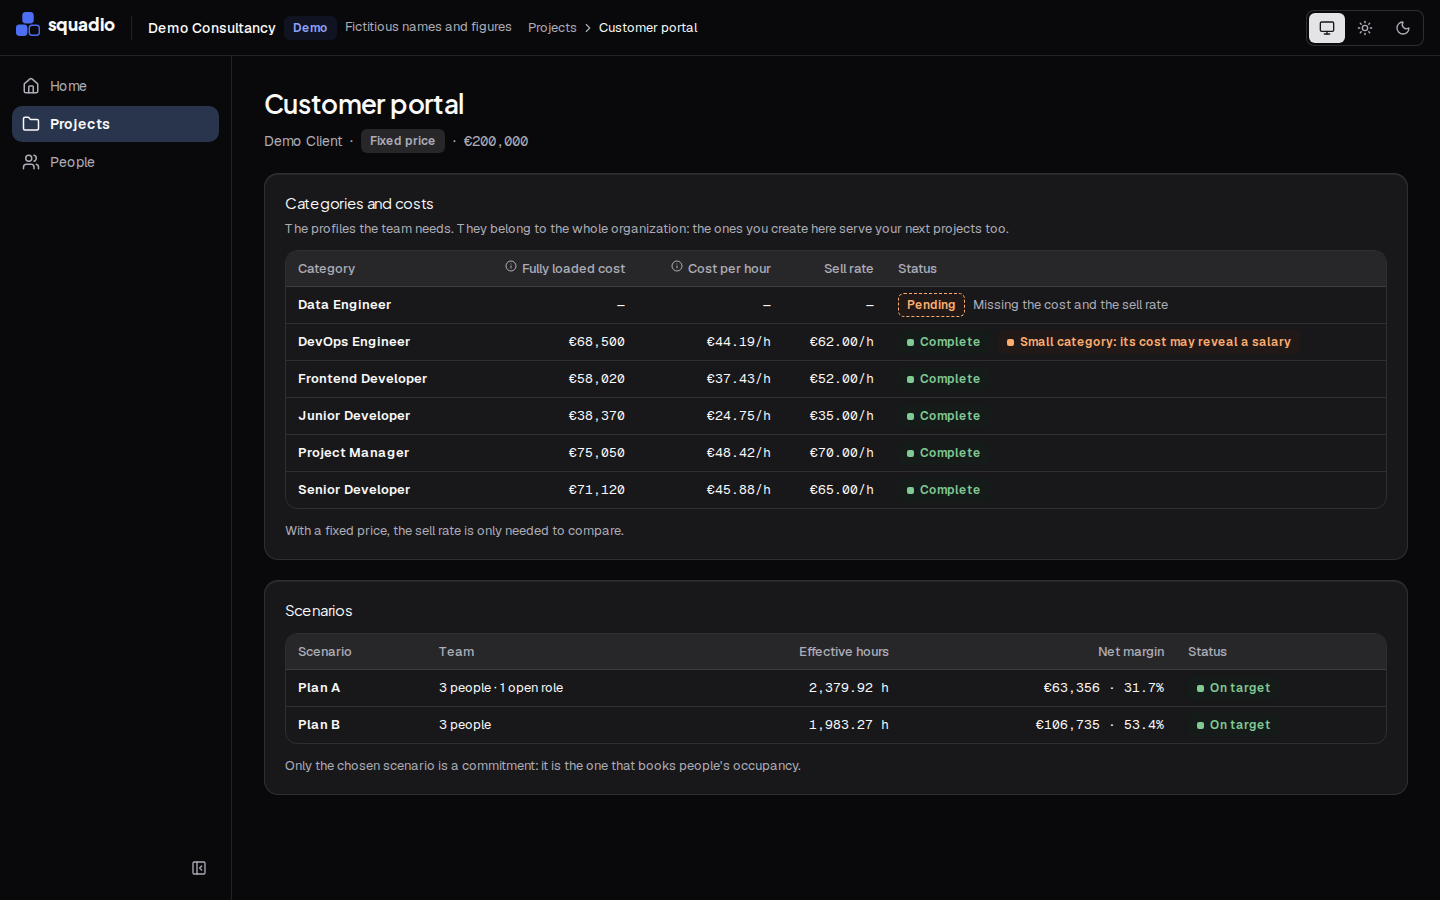
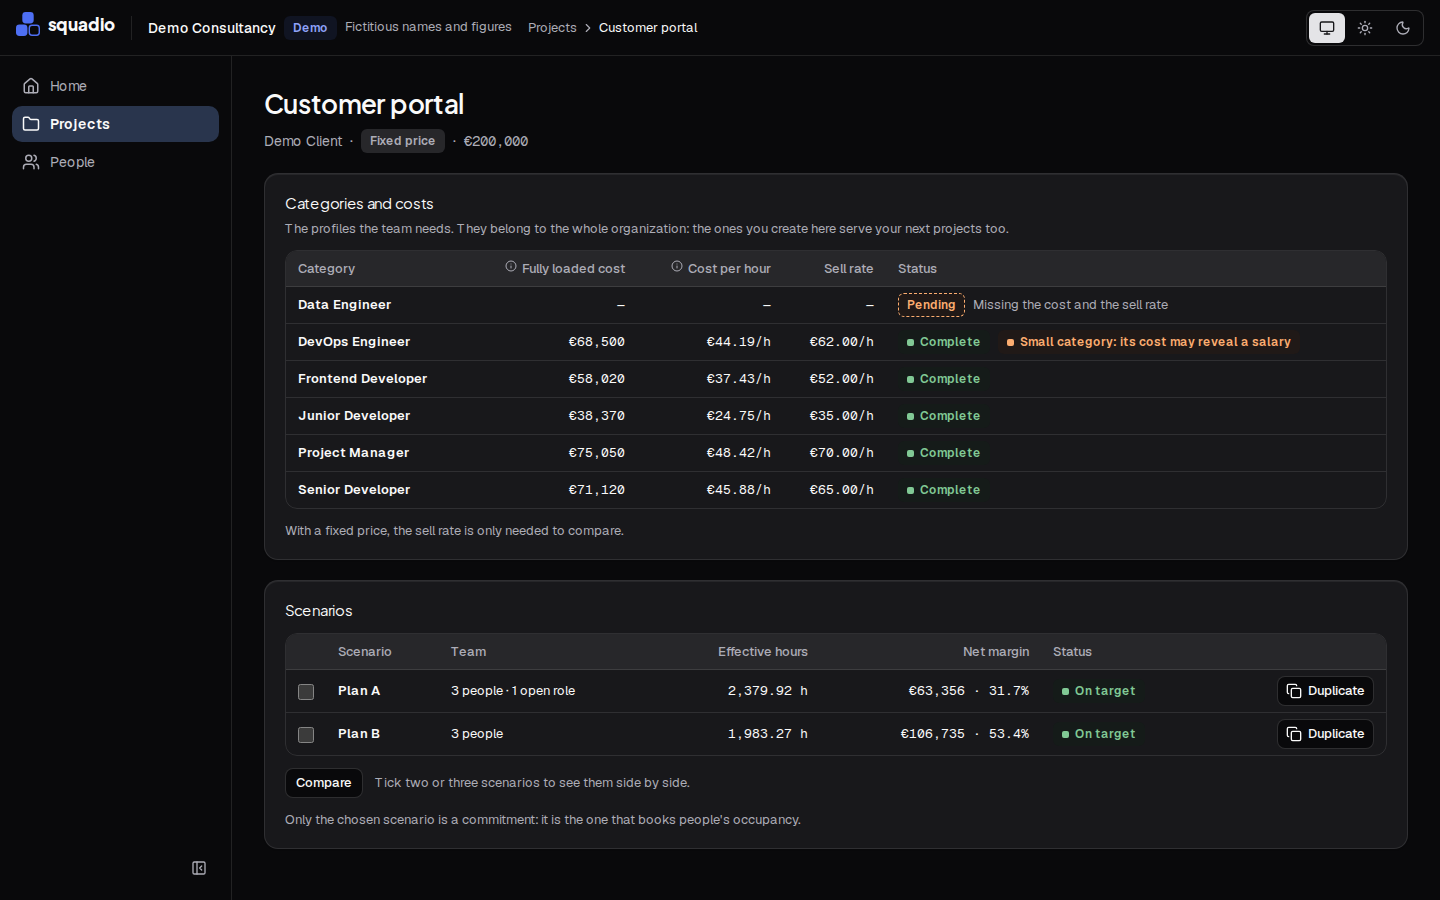
docs(readme): describe v0.4 with new screenshots
The intro and How it works gain duplicating, comparing and the weekly load,
with a link to Plan A and Plan B side by side. Quality quotes the weekly load's
measured times in place of the line that promised them. Two new pictures, the
comparison and the over-allocated tech lead, and the other five retaken with
pnpm screenshots, since the bench and the project's table changed.

diff --git a/README.md b/README.md
@@ -3,15 +3,16 @@
 Staffing simulator for consultancies: build a project team by dragging people or open roles
 into a scenario and see cost, margin and effective rate update live, before you commit.
 
-**v0.3 is live** at [squadio.utitytools.com](https://squadio.utitytools.com): a synthetic demo
+**v0.4 is live** at [squadio.utitytools.com](https://squadio.utitytools.com): a synthetic demo
 organization with its home page, projects, people and scenarios. Edit a scenario and watch cost and
 margin follow every change; when data is missing, the estimate shows every line it can compute and
-says what each other line is waiting for. Your edits go to your own copy of the demo, kept for 30
-days after your last save. Signing in with GitHub or Google to work with your own organization is
-built but closed in production for now. Comparing scenarios comes in v0.4 (see the
-[roadmap](docs/plan.md#roadmap)).
+says what each other line is waiting for. Duplicate a scenario to try a variant, compare two or
+three side by side, and see each person's load week by week, with the people the team over-allocates
+flagged. Your edits go to your own copy of the demo, kept for 30 days after your last save. Signing
+in with GitHub or Google to work with your own organization is built but closed in production for
+now. Sharing a proposal comes in v0.5 (see the [roadmap](docs/plan.md#roadmap)).
 
-![The demo's Plan A in the editor: the bench of people with today's occupancy, the team as a tree, and the summary rail with net margin, key figures and result lines](docs/images/editor-light.png)
+![The demo's Plan A in the editor: the bench of people with today's occupancy and their weekly load, the team as a tree with an over-allocated project manager, and the summary rail with net margin, key figures and result lines](docs/images/editor-light.png)
 
 ## Try the demo
 
@@ -20,19 +21,25 @@ Every figure and name is synthetic.
 | Page                                                                                                                       | What it shows                                                             |
 | -------------------------------------------------------------------------------------------------------------------------- | ------------------------------------------------------------------------- |
 | [Home](https://squadio.utitytools.com/en/home)                                                                             | The organization at a glance, and the corrections its data is waiting for |
-| [Customer portal](https://squadio.utitytools.com/en/projects/6d656d6f-0000-4000-8000-000000000100)                         | A project: its categories with their costs, and its scenarios             |
+| [Customer portal](https://squadio.utitytools.com/en/projects/6d656d6f-0000-4000-8000-000000000100)                         | A project: its categories with their costs, and its scenarios to compare  |
 | [Plan A](https://squadio.utitytools.com/en/scenarios/6d656d6f-0000-4000-8000-000000000200)                                 | The guide case team: tree and table views, the full summary rail          |
 | [Plan A without rate access](https://squadio.utitytools.com/en/scenarios/6d656d6f-0000-4000-8000-000000000200?access=none) | Team and hours only: the server sends no money at all                     |
 | [Over budget](https://squadio.utitytools.com/en/scenarios/6d656d6f-0000-4000-8000-000000000202)                            | Time and materials above its budget cap                                   |
 | [Missing rate](https://squadio.utitytools.com/en/scenarios/6d656d6f-0000-4000-8000-000000000203)                           | A category without a rate: no cost, never 0 €, and a marker on the node   |
 | [Missing price](https://squadio.utitytools.com/en/scenarios/6d656d6f-0000-4000-8000-000000000204)                          | A fixed-price project without a price: costs shown, margins pending       |
-| [Delivery plan](https://squadio.utitytools.com/en/scenarios/6d656d6f-0000-4000-8000-000000000205)                          | A chosen scenario: frozen rates and a locked team, until unchosen         |
+| [Delivery plan](https://squadio.utitytools.com/en/scenarios/6d656d6f-0000-4000-8000-000000000205)                          | A chosen scenario: frozen rates, a locked team, an over-allocated lead    |
 
+To compare scenarios, tick two or three on a project's page, or open
+[Plan A and Plan B side by side](https://squadio.utitytools.com/en/projects/6d656d6f-0000-4000-8000-000000000100/compare?s=6d656d6f-0000-4000-8000-000000000200&s=6d656d6f-0000-4000-8000-000000000201).
 Spanish is the default locale; drop `/en` from a link to see it in Spanish.
 
 <p>
+  <img src="docs/images/compare-light.png" alt="Plan A and Plan B of Customer portal side by side: each result line of both, and Plan B's differences from Plan A, the baseline" width="49%">
+  <img src="docs/images/over-allocation-dark.png" alt="The chosen Delivery plan in the dark theme: its tech lead flagged as over-allocated on the tree, and on the bench the same person's weeks above 100%" width="49%">
+</p>
+<p>
   <img src="docs/images/inicio-light.png" alt="Home: projects, scenarios with a chosen one, pending corrections and active people, with the list of corrections the data is waiting for" width="49%">
-  <img src="docs/images/project-dark.png" alt="The Customer portal project in the dark theme: its categories with costs and sell rates, one pending and one small, and its two scenarios" width="49%">
+  <img src="docs/images/project-dark.png" alt="The Customer portal project in the dark theme: its categories with costs and sell rates, one pending and one small, and its two scenarios, each with a box to compare it and a button to duplicate it" width="49%">
 </p>
 <p>
   <img src="docs/images/partial-result.png" alt="A fixed-price scenario without a price: the summary shows the costs it can compute and marks revenue and margins as pending" width="49%">
@@ -73,6 +80,16 @@ Spanish is the default locale; drop `/en` from a link to see it in Spanish.
   behind a switch that is off in production.
 - **Choosing a scenario freezes it:** its rates and cost settings are copied as they are that day,
   and its team is locked until it is unchosen. The bench's occupancy comes from chosen scenarios.
+- **Duplicating and comparing scenarios** ([comparing scenarios](docs/domain.md#comparing-scenarios)):
+  a copy is a new draft with the same team and extra costs. Two or three scenarios of a project sit
+  side by side, against the chosen one or else the first picked: result lines and their differences
+  with rate access, team and hours for everyone, and an undetermined figure never shown as a
+  difference.
+- **Weekly load and over-allocation** ([weekly load](docs/domain.md#weekly-load)): the bench shows
+  each person's load in every week of the scenario, counting the chosen scenarios of other
+  projects, and the team flags whoever goes above 100% with the weeks and the projects behind it.
+  Load is what Squadio knows: an empty week means nothing is registered, not that the person is
+  free.
 
 The vocabulary is in the [glossary](docs/glossary.md) and every decision in [docs/adr](docs/adr).
 
@@ -89,7 +106,10 @@ Each claim here is checked in CI on every pull request ([ci.yml](.github/workflo
 - **End-to-end tests** (Playwright) run on a production build, with axe (WCAG 2.2 AA and best
   practices) in the light and dark themes and with and without rate access.
 
-Performance figures will appear here once they are measured.
+The weekly load is measured with a synthetic consultancy of 150 people and 30 other projects'
+chosen scenarios ([the test](tests/db/weekly-load-scale.db.test.ts)): loading a scenario with its
+1,500 commitments took 7.3 ms and recalculating after an edit 3.3 ms, on a laptop, on 2026-11-19.
+The test prints the times and asserts none, so CI stays steady.
 
 ## Stack
 
